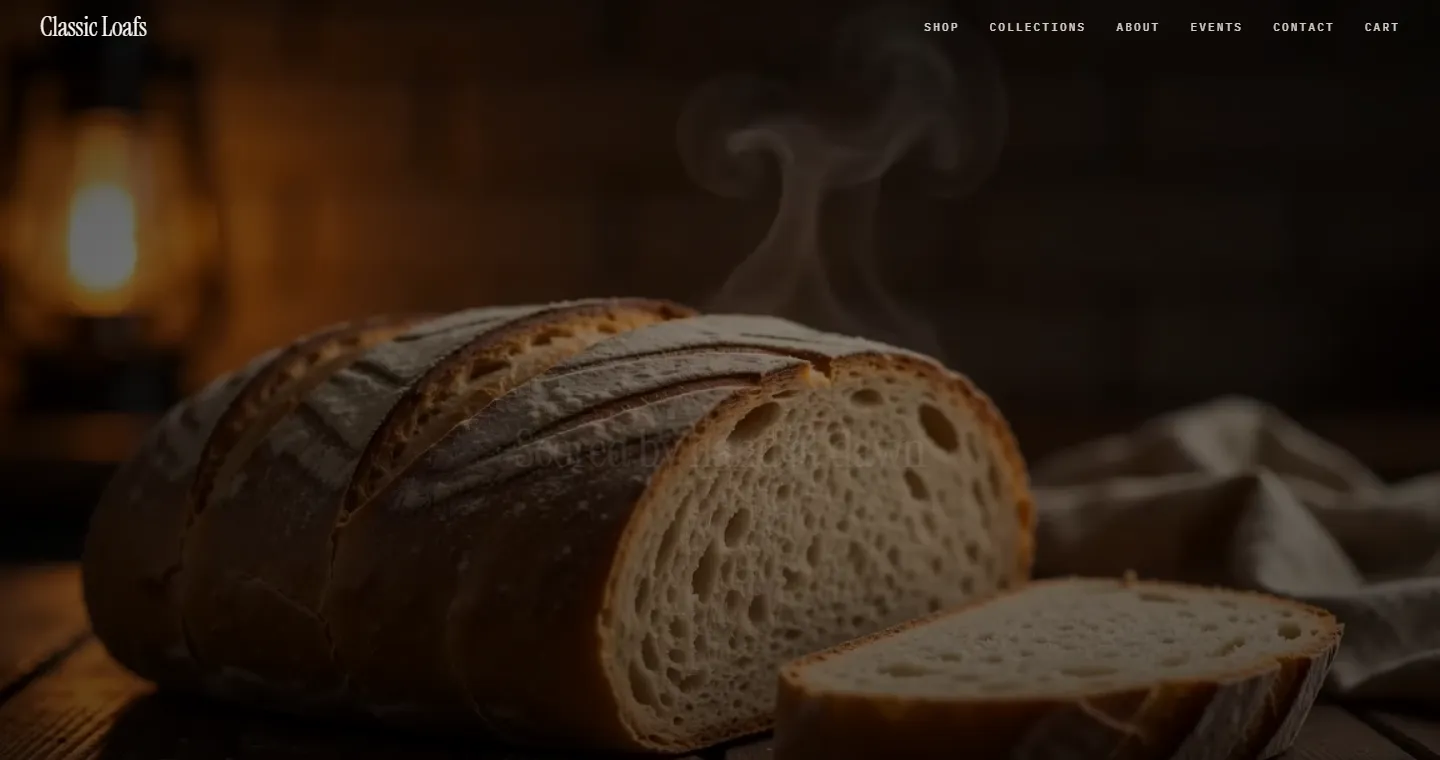
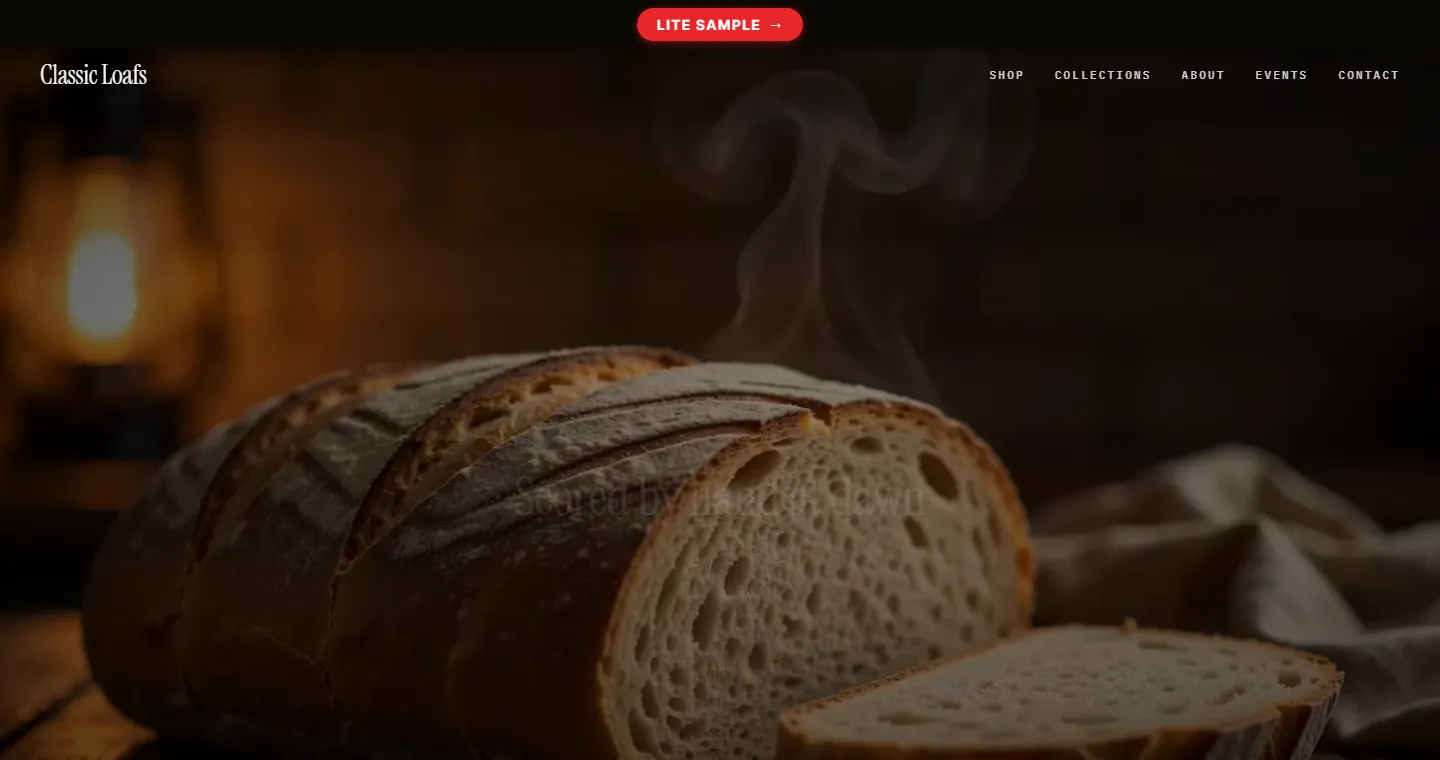
feat(site): one sample card per tier and a samples page; Contractor Lite is now Contractor Lead Generation
Alex: one card per tier, "then a link to other samples"; too crowded,
take out the Fulls except Contractor Full. The home row is Maker
Showcase (Rustic Rhody), Maker Lite (Classic Loafs), Contractor Lead
Generation (Halfmoon) and Contractor Full (True Coat), labelled with the
pricing pages' plan names, with "See more samples" under it. The new
/samples page shows every sample grouped by plan (in the sitemap).

"I do NOT like contractor Lite.. I like Contractor Lead Generation":
renamed on the pricing page, the inquiry form, the cards, the banner and
the tiers spec; the plan id stays contractor-lite so links still work.

The September screenshots of Classic Loafs, Twilight to Darkness and
Heavenly Scents were taken before the sample banners existed; retaken
from the live sites, banners showing.

diff --git a/app/samples/page.tsx b/app/samples/page.tsx
@@ -1,0 +1,67 @@
+import type { Metadata } from 'next';
+import { Scene } from '@/components/Scene';
+import { Header } from '@/components/Header';
+import { Contact } from '@/components/Contact';
+import { Footer } from '@/components/Footer';
+import { SectionKicker } from '@/components/SectionKicker';
+import { WorkShot } from '@/components/WorkShot';
+import { planName, samplesByPlan } from '@/lib/site/work';
+
+export const metadata: Metadata = {
+  title: 'Samples — BohdiAI',
+  description: 'Every sample site, grouped by plan: what a Showcase, Lite, Full or contractor site looks like when it is built.',
+};
+
+const slug = (plan: string): string => `samples-${plan.toLowerCase().replace(/[^a-z0-9]+/g, '-')}`;
+
+/**
+ * bohdiai.com/samples — every sample site, grouped by plan in the order the
+ * plans are sold (Alex, 2026-10-06: one card per tier on the home page, "then a
+ * link to other samples"). Each card opens the live sample in a new tab.
+ */
+export default function SamplesPage(): React.ReactElement {
+  return (
+    <Scene>
+      <Header />
+      <main id="main">
+        <div className="px-2 pt-10 text-center md:pt-16">
+          <SectionKicker>Samples</SectionKicker>
+          <h1 className="mx-auto max-w-[900px] font-sans text-[34px] font-medium leading-[1.05] tracking-[-0.02em] text-text md:text-[60px] md:tracking-[-0.03em]">
+            Every sample, <span className="animate-pulse-glow text-honey-warm">by plan</span>
+          </h1>
+          <p className="mt-5 inline-block rounded-pill border border-dashed border-honey-warm/30 px-3.5 py-1.5 text-[12px] text-muted md:text-[13px]">
+            These are sample shops made to show range, not real businesses
+          </p>
+        </div>
+
+        <div className="relative z-content mx-auto mt-14 flex max-w-[1180px] flex-col gap-16 px-5 md:mt-20 md:gap-24">
+          {samplesByPlan().map(({ plan, samples }) => (
+            <section key={plan} aria-labelledby={slug(plan)}>
+              <h2 id={slug(plan)} className="mb-6 text-[12px] font-medium uppercase tracking-[0.2em] text-muted md:mb-8">
+                {planName(plan)}
+              </h2>
+              <ul className="grid gap-8 md:grid-cols-3">
+                {samples.map((s) => (
+                  <li key={s.slug}>
+                    <a href={s.url} target="_blank" rel="noopener noreferrer" className="group block text-left no-underline">
+                      <div className="transition-transform duration-slow ease-out group-hover:-translate-y-1">
+                        <WorkShot entry={s} sizes="(max-width: 768px) 100vw, 380px" />
+                      </div>
+                      <span className="mt-4 block font-sans text-[18px] font-medium tracking-[-0.01em] text-text">{s.name}</span>
+                      <span className="text-[13px] text-muted">
+                        {s.category} · {s.blurb}
+                      </span>
+                    </a>
+                  </li>
+                ))}
+              </ul>
+            </section>
+          ))}
+        </div>
+
+        <Contact />
+      </main>
+      <Footer />
+    </Scene>
+  );
+}

diff --git a/lib/site/work.ts b/lib/site/work.ts
@@ -25,7 +25,7 @@ export type WorkEntry = {
   features: readonly string[];
   /** Path under public/. */
   shot: string;
-  /** Samples only: which plan the sample shows ("Showcase", "Lite", "Full", "Contractor Lite", "Contractor Full"). */
+  /** Samples only: which plan the sample shows ("Showcase", "Lite", "Full", "Contractor Lead Generation", "Contractor Full"). */
   plan?: string;
   /** Samples only: who the sample is for — its banner links to that pricing page. */
   audience?: 'maker' | 'contractor';
@@ -132,6 +132,7 @@ export const SAMPLES: readonly WorkEntry[] = [
     features: [],
     shot: '/work/twilight-to-darkness.webp',
     plan: 'Full',
+    listed: false,
     testimonials: [],
   },
   {
@@ -158,7 +159,7 @@ export const SAMPLES: readonly WorkEntry[] = [
     blurb: 'A one-page site built to bring in estimate requests',
     features: [],
     shot: '/work/halfmoon-roofing.webp',
-    plan: 'Contractor Lite',
+    plan: 'Contractor Lead Generation',
     audience: 'contractor',
     testimonials: [],
   },
@@ -209,9 +210,22 @@ export const SAMPLES: readonly WorkEntry[] = [
 /** The samples bohdiai.com shows (the rest exist only as sample sites, with the banner). */
 export const LISTED_SAMPLES: readonly WorkEntry[] = SAMPLES.filter((s) => s.listed !== false);
 
+/** The plans in the order they are sold — the samples page groups by this. */
+export const SAMPLE_PLAN_ORDER = ['Showcase', 'Lite', 'Full', 'Contractor Lead Generation', 'Contractor Full'] as const;
+
+/** Every sample, listed on the home page or not, grouped by plan in selling order. */
+export function samplesByPlan(): { plan: string; samples: WorkEntry[] }[] {
+  return SAMPLE_PLAN_ORDER.map((plan) => ({ plan, samples: SAMPLES.filter((s) => s.plan === plan) })).filter((g) => g.samples.length > 0);
+}
+
 /** Who a sample is for; a sample with no audience is a maker's. */
 export function sampleAudience(s: WorkEntry): 'maker' | 'contractor' {
   return s.audience ?? 'maker';
+}
+
+/** The plan as the pricing pages name it: "Maker Showcase", "Contractor Full". */
+export function planName(plan: string): string {
+  return plan.startsWith('Contractor') ? plan : `Maker ${plan}`;
 }
 
 export const WORK: readonly WorkEntry[] = [...CLIENTS, ...LISTED_SAMPLES];

diff --git a/lib/site/work.test.ts b/lib/site/work.test.ts
@@ -4,7 +4,7 @@ import path from 'node:path';
 import { WORK, CLIENTS, SAMPLES, LISTED_SAMPLES, HERO_WORK } from './work';
 
 describe('the work list', () => {
-  it('has two clients, five listed samples (three maker plans, two contractor plans), and three more sample sites kept off bohdiai.com', () => {
+  it('has two clients, one listed sample per plan on the home page (Maker Showcase, Maker Lite, Contractor Full, Contractor Lead Generation), and the rest kept for the samples page', () => {
     expect(CLIENTS.map((w) => w.name)).toEqual([
       'Cut-Pro Lawncare & Construction',
       'Decoupage Digital Designs',
@@ -14,12 +14,12 @@ describe('the work list', () => {
       ['Classic Loafs', 'Lite'],
       ['Twilight to Darkness', 'Full'],
       ['True Coat Painting', 'Contractor Full'],
-      ['Halfmoon Roofing', 'Contractor Lite'],
+      ['Halfmoon Roofing', 'Contractor Lead Generation'],
       ['Heavenly Scents', 'Full'],
       ['Paper & Patina', 'Showcase'],
       ['Ember & Pine', 'Showcase'],
     ]);
-    expect(LISTED_SAMPLES.map((w) => w.name)).toEqual(['Rustic Rhody', 'Classic Loafs', 'Twilight to Darkness', 'True Coat Painting', 'Halfmoon Roofing']);
+    expect(LISTED_SAMPLES.map((w) => w.name)).toEqual(['Rustic Rhody', 'Classic Loafs', 'True Coat Painting', 'Halfmoon Roofing']);
     expect(WORK).toEqual([...CLIENTS, ...LISTED_SAMPLES]);
     expect(CLIENTS.every((w) => w.kind === 'client')).toBe(true);
     expect(SAMPLES.every((w) => w.kind === 'sample')).toBe(true);

diff --git a/components/Work.tsx b/components/Work.tsx
@@ -1,4 +1,4 @@
-import { CLIENTS, LISTED_SAMPLES, sampleAudience } from '@/lib/site/work';
+import { CLIENTS, LISTED_SAMPLES, planName, sampleAudience } from '@/lib/site/work';
 import { ClientSlideshow } from './ClientSlideshow';
 import { WorkShot } from './WorkShot';
 import { SectionKicker } from './SectionKicker';
@@ -92,7 +92,7 @@ export function Work({ audience }: { audience?: Audience } = {}): React.ReactEle
                 <div className="mt-4 px-1.5">
                   {s.plan !== undefined && (
                     <span className="mb-1.5 inline-block rounded-pill border border-honey-warm/35 bg-honey-warm/[0.08] px-2.5 py-0.5 text-[11px] font-semibold uppercase tracking-[0.12em] text-honey-warm">
-                      {s.plan}
+                      {planName(s.plan)}
                     </span>
                   )}
                   <span className="block font-sans text-[18px] font-medium tracking-[-0.01em] text-text">
@@ -105,6 +105,12 @@ export function Work({ audience }: { audience?: Audience } = {}): React.ReactEle
               </a>
             ))}
           </div>
+          <a
+            href="/samples"
+            className="relative z-content mt-12 inline-flex items-center gap-2 border-b border-honey-warm/35 pb-0.5 text-[14px] font-semibold text-honey-warm no-underline transition-colors hover:border-honey-warm md:mt-20"
+          >
+            See more samples →
+          </a>
         </div>
       )}
     </section>

diff --git a/app/samples/page.test.tsx b/app/samples/page.test.tsx
@@ -1,0 +1,27 @@
+import { describe, it, expect, vi } from 'vitest';
+import { render, screen } from '@testing-library/react';
+import { SAMPLES } from '@/lib/site/work';
+
+// eslint-disable-next-line @next/next/no-img-element -- a plain img stands in for next/image in tests
+vi.mock('next/image', () => ({ default: (p: { alt: string; src: string }) => <img alt={p.alt} src={p.src} /> }));
+vi.mock('next/navigation', () => ({ useSearchParams: () => new URLSearchParams('') }));
+const { default: SamplesPage } = await import('./page');
+
+describe('bohdiai.com/samples', () => {
+  it('shows every sample, linked to its live site, labelled as samples', () => {
+    const { container } = render(<SamplesPage />);
+    expect(screen.getByText(/not real businesses/i)).toBeInTheDocument();
+    for (const s of SAMPLES) expect(container.querySelector(`a[href="${s.url}"]`)).not.toBeNull();
+  });
+
+  it('groups them by plan in selling order, under the plan names from the pricing pages', () => {
+    const { container } = render(<SamplesPage />);
+    expect([...container.querySelectorAll('section[aria-labelledby^="samples-"] h2')].map((h) => h.textContent)).toEqual([
+      'Maker Showcase',
+      'Maker Lite',
+      'Maker Full',
+      'Contractor Lead Generation',
+      'Contractor Full',
+    ]);
+  });
+});

diff --git a/components/pricing/PlanCards.test.tsx b/components/pricing/PlanCards.test.tsx
@@ -32,7 +32,7 @@ describe('PlanCards', () => {
   it('switches both cards to the yearly price', async () => {
     render(<PlanCards audience="contractor" path="/contractors" />);
     await userEvent.setup().click(screen.getByRole('radio', { name: /yearly/i }));
-    expect(screen.getByRole('article', { name: 'Contractor Lite' })).toHaveTextContent('$150');
+    expect(screen.getByRole('article', { name: 'Contractor Lead Generation' })).toHaveTextContent('$150');
     expect(screen.getByRole('article', { name: 'Contractor Full' })).toHaveTextContent('$300');
     expect(screen.getByRole('article', { name: 'Contractor Full' })).toHaveTextContent(/a year/);
     expect(screen.getByRole('radio', { name: /yearly/i })).toBeChecked();

diff --git a/lib/storefront/sample-banner.test.ts b/lib/storefront/sample-banner.test.ts
@@ -13,7 +13,7 @@ describe('sampleBannerFor', () => {
 
   it('labels the contractor samples and links them to the contractor plans', () => {
     expect(sampleBannerFor('true-coat-painting')).toEqual({ label: 'Contractor Full sample', href: 'https://bohdiai.com/contractors#plans' });
-    expect(sampleBannerFor('halfmoon-roofing')).toEqual({ label: 'Contractor Lite sample', href: 'https://bohdiai.com/contractors#plans' });
+    expect(sampleBannerFor('halfmoon-roofing')).toEqual({ label: 'Contractor Lead Generation sample', href: 'https://bohdiai.com/contractors#plans' });
   });
 
   it('gives every sample a banner, listed on bohdiai.com or not', () => {

diff --git a/app/page.test.tsx b/app/page.test.tsx
@@ -37,6 +37,7 @@ describe('bohdiai.com home', () => {
     fireEvent.click(within(clients).getByRole('button', { name: 'Next client' }));
     expect(within(clients).getByRole('heading', { level: 3 })).toHaveTextContent('Decoupage Digital Designs');
     expect(screen.getByText(/not real businesses/i)).toBeInTheDocument();
+    expect(screen.getByRole('link', { name: /see more samples/i })).toHaveAttribute('href', '/samples');
   });
 
   it('keeps the promises next to the form, now that prices are public', () => {

diff --git a/app/contractors/page.test.tsx b/app/contractors/page.test.tsx
@@ -12,7 +12,7 @@ describe('bohdiai.com/contractors', () => {
     expect(screen.getByRole('heading', { level: 1 })).toHaveTextContent(
       'A real web developer for less than a site builder',
     );
-    expect(screen.getByRole('article', { name: 'Contractor Lite' })).toHaveTextContent('$15');
+    expect(screen.getByRole('article', { name: 'Contractor Lead Generation' })).toHaveTextContent('$15');
     expect(screen.getByRole('article', { name: 'Contractor Full' })).toHaveTextContent('$30');
   });
 

diff --git a/components/PlanInquiryForm.test.tsx b/components/PlanInquiryForm.test.tsx
@@ -18,7 +18,7 @@ describe('PlanInquiryForm', () => {
   it('starts on the plan in the address and the audience’s kind of business', () => {
     query = 'plan=contractor-lite';
     render(<PlanInquiryForm audience="contractor" />);
-    expect(screen.getByLabelText('Contractor Lite')).toBeChecked();
+    expect(screen.getByLabelText('Contractor Lead Generation')).toBeChecked();
     expect(screen.getByLabelText(/service business/i)).toBeChecked();
   });
 

diff --git a/lib/site/plans.test.ts b/lib/site/plans.test.ts
@@ -50,7 +50,7 @@ describe('plans', () => {
     expect(isPlanId('maker-full')).toBe(true);
     expect(isPlanId('maker-pro')).toBe(false);
     expect(isPlanId('')).toBe(false);
-    expect(planById('contractor-lite').name).toBe('Contractor Lite');
+    expect(planById('contractor-lite').name).toBe('Contractor Lead Generation');
   });
 
   it('ends every comparison with BohdiAI and fills every row', () => {

diff --git a/app/sitemap.ts b/app/sitemap.ts
@@ -10,7 +10,7 @@ export default function sitemap(): MetadataRoute.Sitemap {
       changeFrequency: 'weekly',
       priority: 1,
     },
-    ...['/makers', '/contractors', '/faq'].map((path) => ({
+    ...['/makers', '/contractors', '/faq', '/samples'].map((path) => ({
       url: `${SITE_URL}${path}`,
       lastModified: new Date(),
       changeFrequency: 'monthly' as const,
